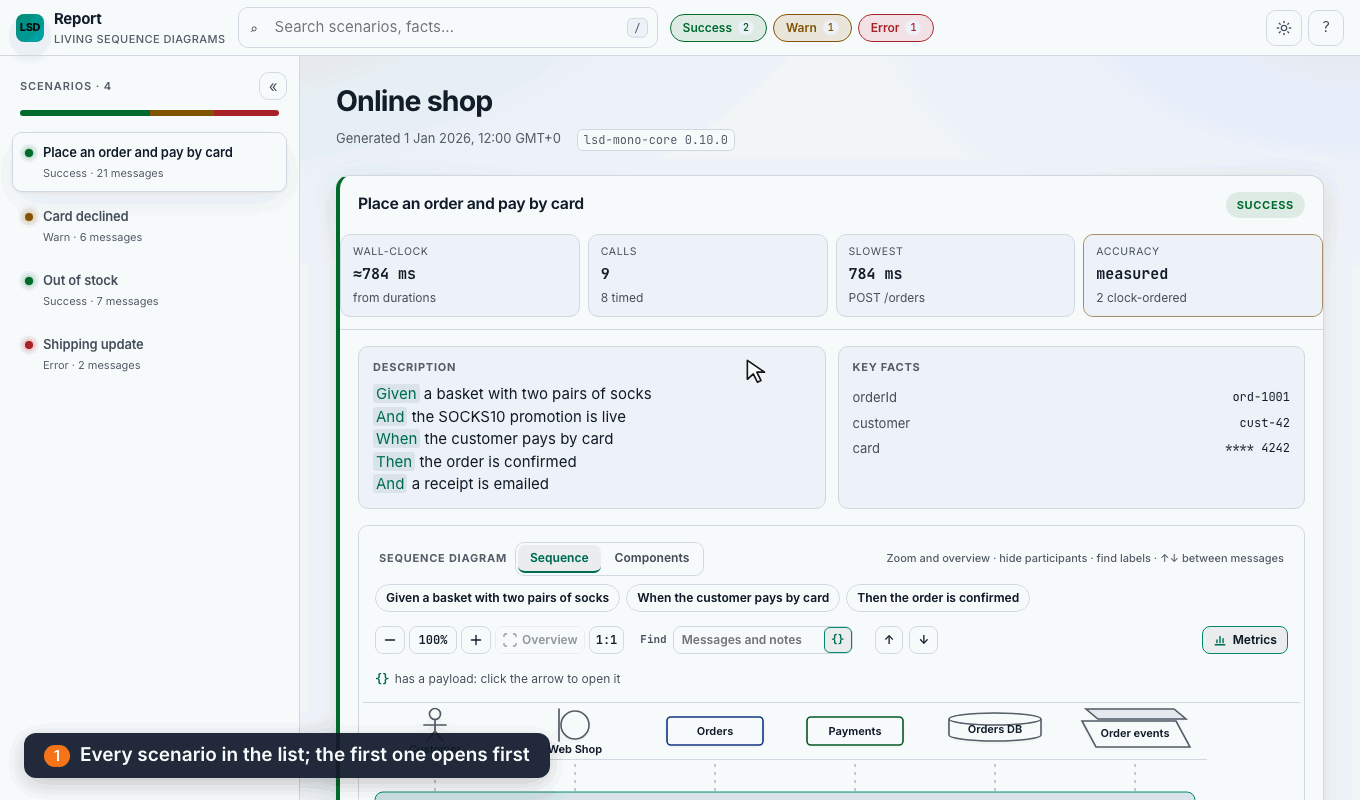
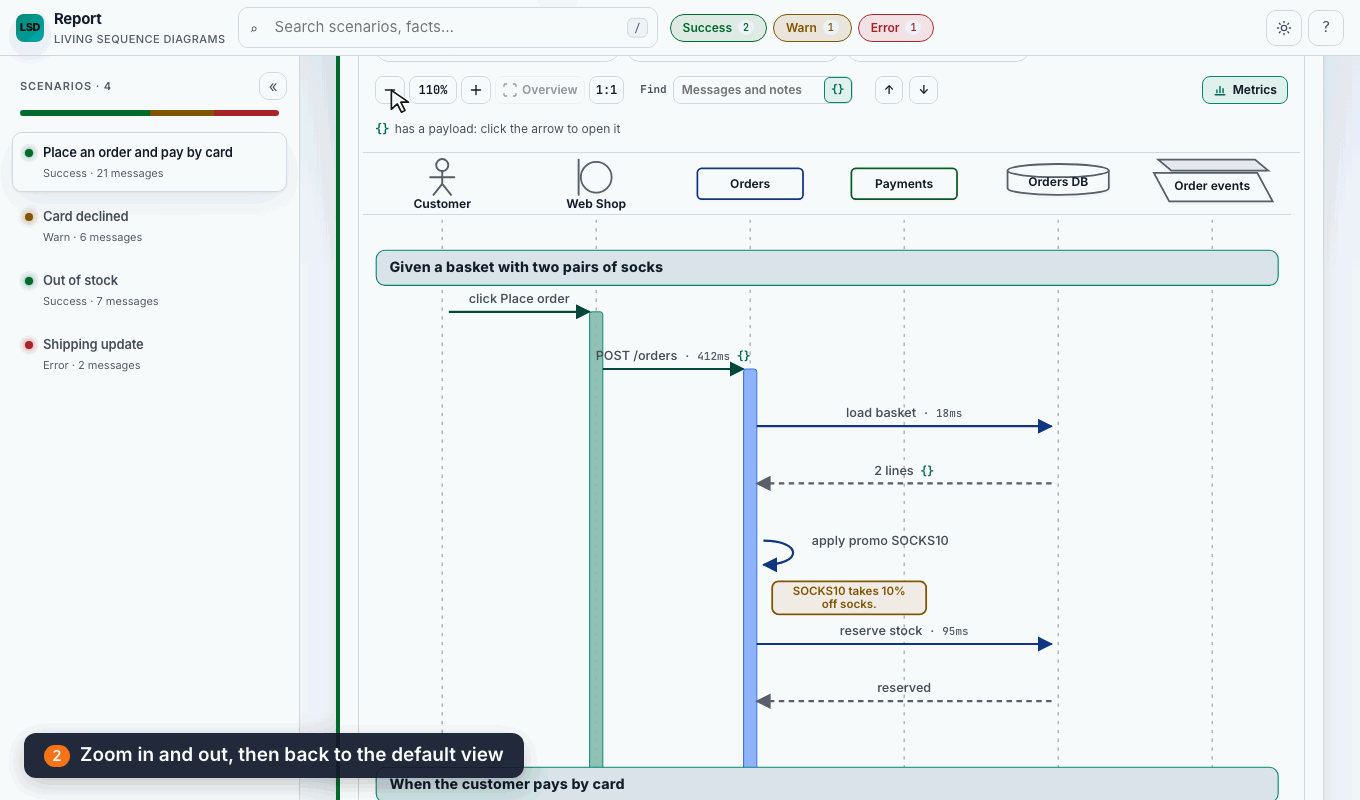
docs(readme): reduced-motion still for the feature tour

diff --git a/README.md b/README.md
@@ -15,9 +15,14 @@ Each diagram shows who called whom, with what payload, how long it took, and whe
 
 **[See a live report →](https://lsd-consulting.github.io/lsd-mono/example-report.html)** (an online shop checkout across 14 services) · [Spring Boot sample](https://lsd-consulting.github.io/lsd-mono/spring-boot-4/) · [http4k sample](https://lsd-consulting.github.io/lsd-mono/http4k-6/) · [Ktor sample](https://lsd-consulting.github.io/lsd-mono/ktor-3/)
 
-[![A still from the report tour: the Online shop report with its scenario list, timing summary, description and sequence diagram. Select it to play the animated tour: choosing a scenario, zoom, find, an arrow's JSON, the component diagram, metrics, hiding a participant, the themes and the collapsed scenario list](docs/readme/feature-tour.png)](docs/readme/feature-tour.gif)
+<a href="docs/readme/feature-tour.gif">
+<picture>
+  <source media="(prefers-reduced-motion: reduce)" srcset="docs/readme/feature-tour.png">
+  <img src="docs/readme/feature-tour.gif" alt="A still from the report tour: the Online shop report with its scenario list, timing summary, description and sequence diagram. Select it to play the animated tour: choosing a scenario, zoom, find, an arrow's JSON, the component diagram, metrics, hiding a participant, the themes and the collapsed scenario list">
+</picture>
+</a>
 
-*A still from the tour. [Play the animated tour (GIF)](docs/readme/feature-tour.gif).*
+*Animated tour of the report. If your system asks for less motion, you'll see a still; [open the animated tour (GIF)](docs/readme/feature-tour.gif).*
 
 ## Supported stacks today
 
